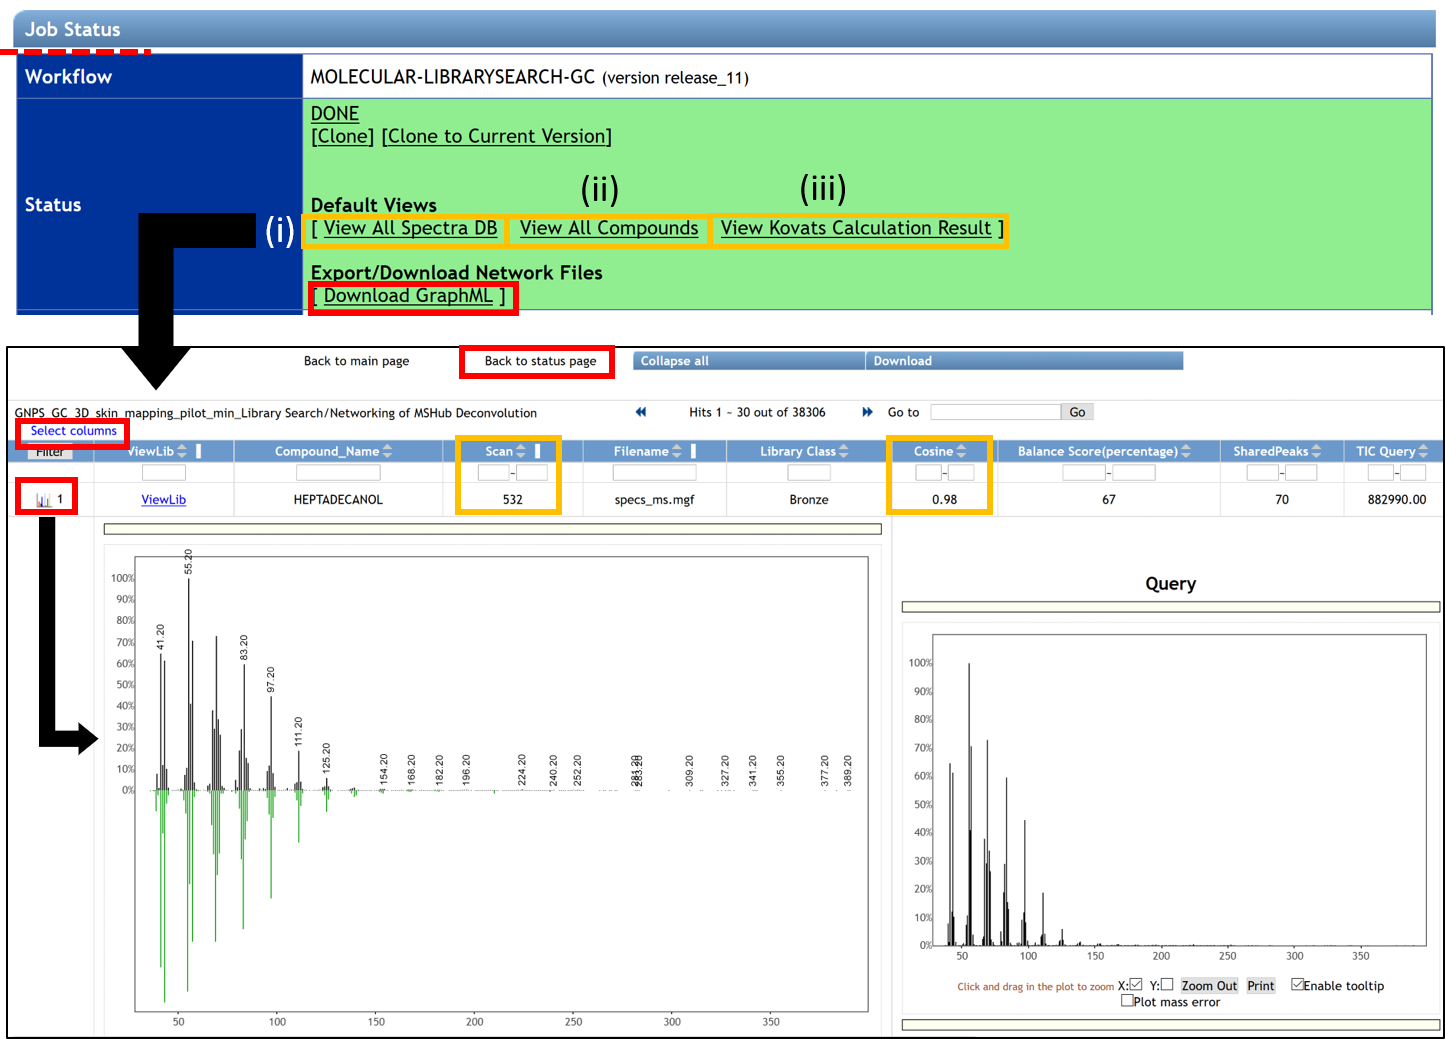
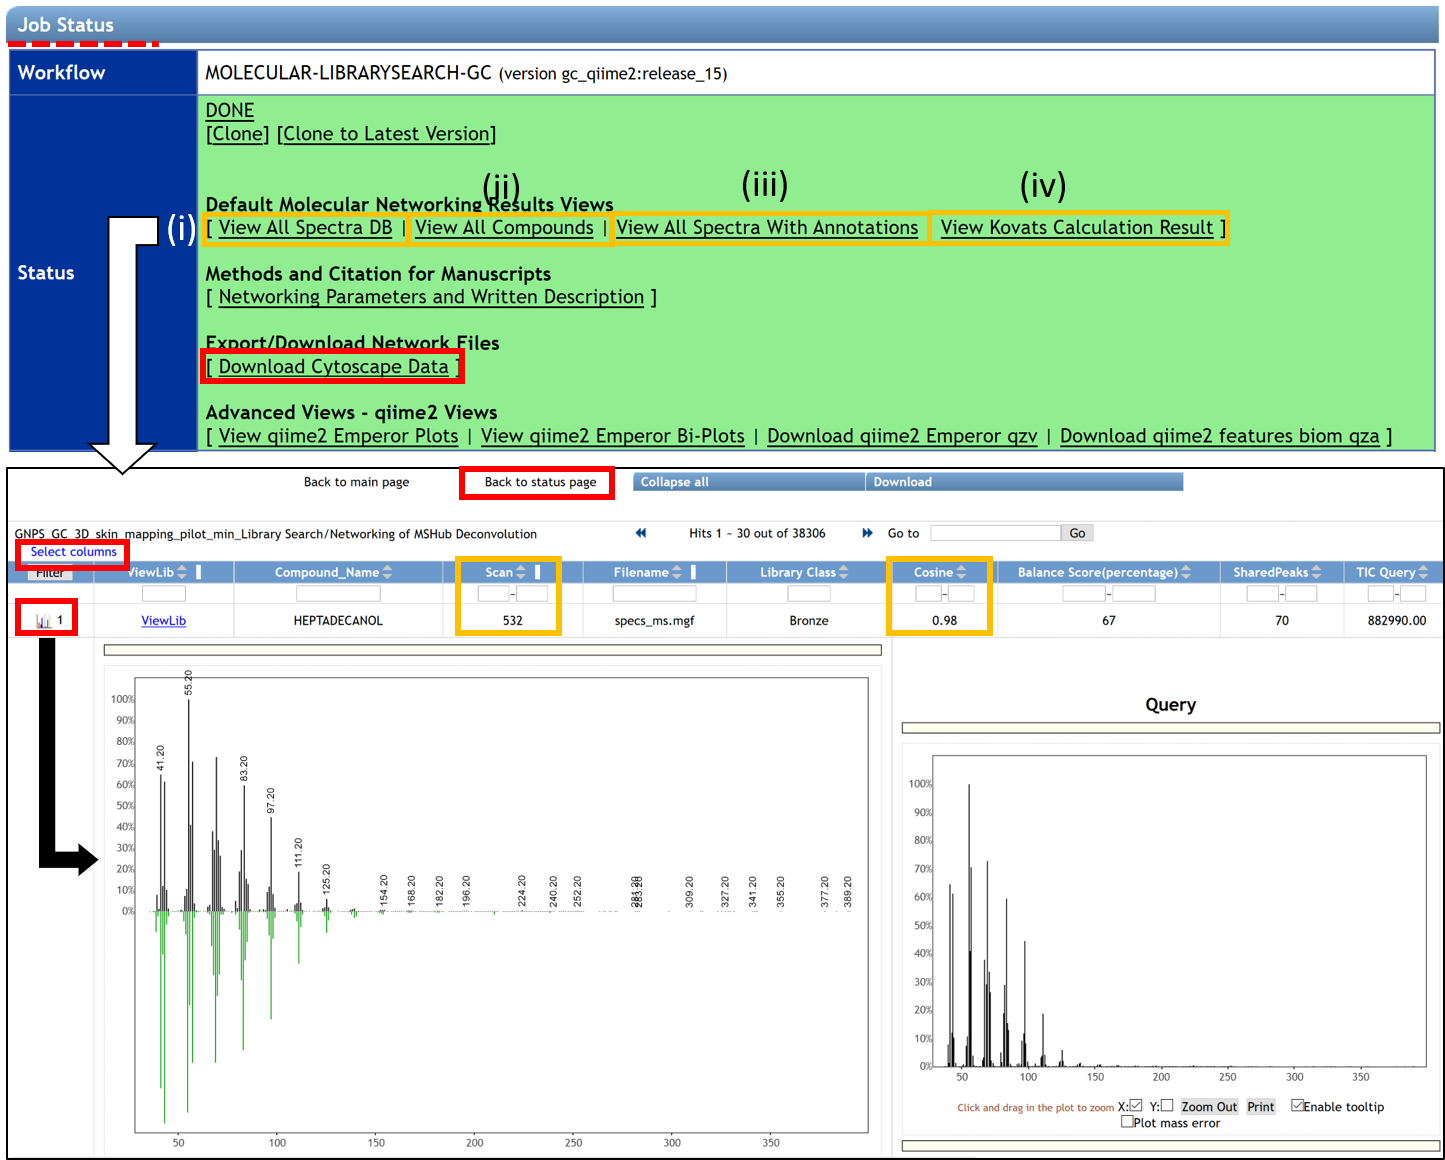
20191113_update

diff --git a/docs/gc-ms-library-molecular-network.md b/docs/gc-ms-library-molecular-network.md
@@ -11,13 +11,15 @@ There are two options to open the job page for conducting a spectral library sea
 
 The **"Search Option" section** in the job window allows importing files needed for the spectral library search and the molecular networking generation. By clicking on "select Input Files", a pop-up window appears, allowing to select every needed file.
 
-(1), (2) The .mgf file containing the deconvolved EI spectra and the feature quantification table automatically adds if the spectral library search is launched from the deconvolution job performed with MS-Hub. Otherwise, they can be added by the user. The quantification table has to include the balance score and is formatted as the MZmine output table.
+(1), (2) The .mgf file containing the deconvolved EI spectra and the .csv feature quantification table automatically (with balance score) adds if the spectral library search is launched from the deconvolution job performed with MS-Hub. Otherwise, they can be added by the user from others processing software. The quantification table is formatted as the MZmine2 output table with a "raw ID", "row m/z", "row retention time" columns, and all the peak area values for all .mzML files.
+
+![img](img/GC-MS_documentation/Fig_9A.png)
 
 (3) Select your metadata table formatted as a tab-separated .txt file. To create your metadata table properly, see the documentation [here](metadata.md). 
 
 (4) Library files have to be added. Each user should add their libraries on GNPS by following the instructions [here](batchupload.md), or by uploading them in .mgf format (drag and drop on “Upload File” section). 
 
-(5) The carbon marker table has to be added. This table must have one “Compound_Name” column that includes the name and the number of carbon into parentheses, and another column named “RT_Query” with the retention time in seconds. Readers following the tutorial can use the following carbon marker table file [GC_Covats_SKIN](img/GC-MS documentation/GC_Kovats_SKIN.csv).
+(5) The carbon marker table has to be added. This table must be formatted as .csv file, with the “Compound_Name” that includes the name and the number of carbon into parentheses and the “RT_Query” with the retention time in seconds separated by semi-colon. Readers following the tutorial can use the following carbon marker table file [Kovats_table](table/GC-MS_documentation/Kovats_table).
 
 ![img](img/GC-MS_documentation/Fig_9.png)
 
@@ -64,19 +66,19 @@ The **job window** proposed four fields of advanced search, filtering, network, 
 | Meta-table (Optional)                                        | Selection of metadata to include in the search.              | The metadata file describes the samples properties and allows more flexibility for data analysis and visualization. It is an alternative way to assign groups when selecting data input files within the workflow of GNPS, see an example [here](metadata.md). |
 | Min pairs cos                                                | Minimum cosine score required for an edge to be formed between nodes. Lower value will increase the size of the clusters by inducing the clustering of less related spectra, higher value will limit do the opposite. | 0.7 value is set as default. This value has been determined to effectively delineate subclasses and Levels 6 and 7 and usually performs well with data obtained through experiments without derivatization, but that will depend on the quality of the mass spectra obtained. For derivatized compounds the cosine value for good matches is generally lower due to an inferior quality of the EI spectra. |
 | Network TopK                                                 | Pairs of nodes are reported only if they are found to be best matches in the topK in both directions that are above the minimum cosine score. | Default is set to 10. This value enables the network to be more or less complex. |
-| Quant-table (Optional)                                       | Table including feature ID, retention time (in min.) with balance score, Rel. Max Integral and Sample\Best order. | The quantification table usually is directly included into the Library search/Networking job or can be imported externally. External deconvolution tools do not provide balance score and it will not be available in the search results. |
+| Quant-table                                                  | Table including feature ID, retention time and peak area values. | The quantification table usually is directly included into the Library search/Networking job when processing via MS-Hub or can be imported externally when processing by other software. |
 | Maximum shift between precursors                             | The maximum allowed difference in precursor m/z differences. | Must be set to the higher m/z expected in the analysis for EI data since no precursor information is available (default value of 500) |
 | Maximum Connected Component Size                             | Maximum number of nodes that can be connected in a single sub-network of a molecular network. This process iteratively breaks up large ‘hairball’ networks (of false positives) by removing the lowest scoring alignments (by cosine score) first until the resulting pieces fall below the maximum size. | Default setting is 100 – this value can be set to 0 to allow for an unlimited number of nodes or a higher setting can be used for larger data sets or for data sets containing many structurally-related molecules. Low value encourages breaking up the “hairball” clusters but increases the chance that some nodes become disconnected and fall out of the network. |
 | ***Advanced Kovats Index Calculation Options***              |                                                              |                                                              |
 | Perform Kovats Calculation                                   | Whether to perform calculation of Kovats retention index.    | If the user need to calculate Kovats RIs for the compounds during library search this parameter should be selected. (i) The Input Carbon Marker File could be provided for Kovats markers, but it must be conducted with identical protocol as the rest of the experiment. (ii) The Carbon Marker File is not provided, so the Kovat’s RIs will be estimated based on dataset-wide annotations and perform a polynomial fitting to generate satisfactory regression based in the annotations with higher Cosine and its Kovats RIs (experimental feature, may not be suitable for all datasets). |
-| Input Carbon Marker File (Optional)                          | If provided, this information will be used for RI estimation. | The RI markers information should be submitted as a comma separated values (.csv) file in the following format (header followed by names or available reference compounds and their retention times in seconds). |
+| Input Carbon Marker File (Optional)                          | If provided, this information will be used for RI estimation. | The RI markers information should be submitted as .csv file. |
 | Cosine Threshold for Kovats Filter (Can be left blank, experimental feature) | The minimal value of cosine score for the library match to be used for Kovats RI values assignment. | Default value is set at 0.9 to limit inclusion of erroneous annotations that may introduce errors into the calculation. This value can be lower (0.85) for experiments with derivatization because the variation between experimental and theoretical Kovats RIs usually is higher. |
 | Kovats Retention Index Filtering Window (+/- %) (Can be left blank, experimental feature) | The allowable error window for the calculated/assigned Kovats RI for the annotation to be retained. | Default of +/-10%. This value can be higher according to the quality of the mass spectra or for experiments with derivatization because the variation between experimental and theoretical Kovats RIs usually is higher. Have in mind that all of the annotations will be shown when exploring results in the browser after completing the job. |
 | Retention time window starts/ends (mins) (Can be left blank, experimental feature) | The portion of chromatogram across the dataset to be used for selecting annotations for Kovats RI assignment. | Select values according to the specifics of experiment. The front end portion of chromatogram that contains dead volume elution, solvent delay, solvent peak or otherwise is unusable, as well as back end portion after all of the meaningful compounds have eluted (e.g. bakeout ramp, column bleeding) should be excluded. |
 
 ## Inspect the Results
 
-After the job has been completed, the **job status page** gives access to three different views:
+After the job has been completed, the **job status page** gives access to four molecular networking results views:
 
 (i) “View All Spectra DB” opens the interface that allows visualization of spectral matches to the reference database from selected libraries. It will display all of the top matches for each feature to different libraries and relevant information including retention time. 
 
@@ -86,9 +88,13 @@ After the job has been completed, the **job status page** gives access to three 
 
 (ii) The “View All Compounds” option accesses the list of top hits (Compound_Name) with the corresponding cosine and the balance score for all annotated spectra.
 
-(iii) The link “View Kovats Calculation Result” shows Kovats calculation results for each spectrum if selected when launching the job.
+(iii) The "View All Spectra With Annotations" option gives access to all annotated spectra.
 
-The button at the top of the page “Back to status page” allows going back. To visualize molecular networks generated, the user has to download the input network files from the “Download GraphML” link, save the folder, and unzip it.
+(vi) The link “View Kovats Calculation Result” shows Kovats calculation results for each spectrum if selected when launching the job.
+
+The button at the top of the page “Back to status page” allows going back. To visualize molecular networks generated with cytoscape, the user has to download the input network files from the “Download Cytoscape data” link, save the folder, and unzip it.
+
+In the job status page, some advanced views are available to visualized qiime2 emperor plots or bi-plots, and to download the associated tables. For more information, follow this [link](https://ccms-ucsd.github.io/GNPSDocumentation/molnetenhancer/#view-qiime2-emperor-plots).
 
 ![img](img/GC-MS_documentation/Fig_10.png)
 
